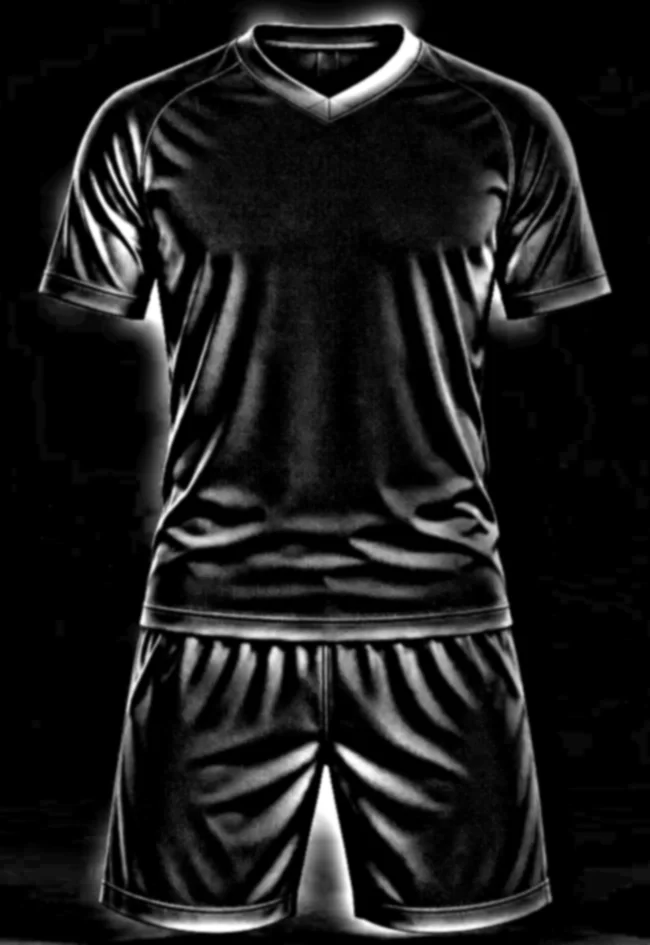
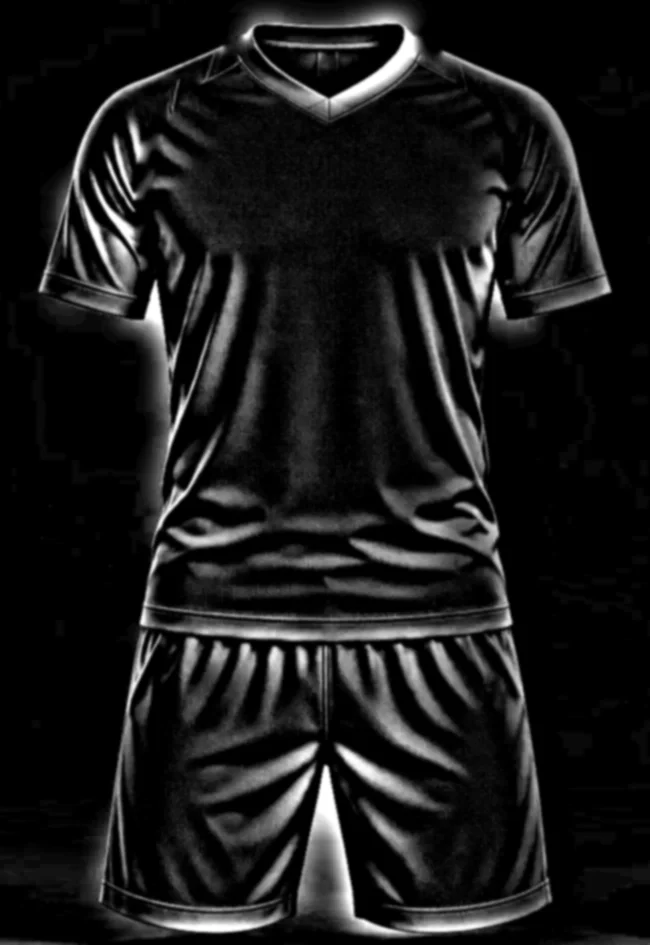
Gola careca no mockup em foto, manga comum e punho inclinado
- Visual Foto: variante da frente sem o V (mapas -careca) e gola redonda
  desenhada com sombra própria quando a gola Careca é escolhida
- Costuras raglan apagadas dos mapas de luz da foto; costura de manga
  comum desenhada nos dois visuais
- Sem opção de cor da manga: segue a cor de fundo do uniforme (simulações
  salvas também são ajustadas); aba renomeada para Gola e punho
- Punhos inclinados acompanhando a barra das mangas (foto remedida e
  ilustração)

Claude-Session: https://claude.ai/code/session_01LWKwsvGKQjaMGiuZcpz9Vi

diff --git a/simulador/js/render.js b/simulador/js/render.js
@@ -34,14 +34,12 @@ export const TIPOS_GOLA = Object.fromEntries(Object.entries(GOLAS).map(([k, g]) 
 const GOLA_INTERNA = 'M87300 2400C97000 -900 130000 -900 140200 2400L138600 4600C129000 1600 98500 1600 88900 4600Z';
 const GOLA_COSTAS = 'M78800 -500C86500 11500 140500 11500 148200 -500L141000 -500C133500 5200 93500 5200 86000 -500Z';
 
-// área das mangas (para a cor da manga) e costura do ombro
-export const MANGAS = [
-  'M-2000 -2000H39500V15500C49500 45000 50500 85000 43200 114200L46000 132000H-2000Z',
-  'M227000 -2000H186500V16500C176000 45000 175500 85000 184400 109700L182000 132000H227000Z',
-];
+// costura da manga (manga comum, montada separada do corpo)
 const COSTURA_MANGA = 'M39500 16500C49500 45000 50500 85000 43200 114200M186500 17500C176000 45000 175500 85000 184400 109700';
 
-export const PUNHOS = 'M-2000 116800H46500V126000H-2000ZM181000 115200H227000V124000H181000Z';
+// punhos levemente inclinados, acompanhando a barra de cada manga
+export const PUNHOS = 'M-2000 113700L43300 115500V127000H-2000ZM184600 115000L227000 113500V126000H184600Z';
+const PUNHOS_COSTURA = 'M-2000 113700L43300 115500M184600 115000L227000 113500';
 export const TIPOS_PUNHO = { sem: 'Sem punho', simples: 'Punho simples' };
 
 // par de meiões com chuteira (coordenadas de uma perna: 170 x 470). O meião é
@@ -105,7 +103,6 @@ export function variaveisCor(estado, camadasCamisa = 6, camadasCalcao = 6) {
     '--camisa-base': hex(c.camisa.base),
     '--calcao-base': hex(calcao.base),
     '--gola': hex(estado.gola.cor),
-    '--manga': hex(estado.manga.cor === 'corpo' ? c.camisa.base : estado.manga.cor),
     '--punho': hex(estado.punho.cor),
     '--meiao': hex(estado.meiao.cor),
     '--texto': hex(estado.nome.cor),
@@ -187,7 +184,6 @@ function golaFrente(id, gola) {
 function camisa({ id, modelo, lado, estado, silhueta, overlays }) {
   const { w, h } = VB.camisa;
   const gola = GOLAS[estado.gola.tipo] ?? GOLAS.careca;
-  const corManga = estado.manga.cor !== 'corpo';
   const frente = lado === 'frente';
   return `<svg viewBox="0 0 ${w} ${h}" overflow="visible">
     <defs><clipPath id="${id}-clip"><path d="${silhueta}"/></clipPath>${filtros(id, w, h)}
@@ -196,10 +192,9 @@ function camisa({ id, modelo, lado, estado, silhueta, overlays }) {
     <g clip-path="url(#${id}-clip)">
       <rect x="-5000" y="-5000" width="${w + 10000}" height="${h + 10000}" fill="var(--camisa-base)"/>
       ${camadasModelo(modelo, 'camisa', lado)}
-      ${corManga ? `<path d="${MANGAS.join('')}" fill="var(--manga)"/>` : ''}
       ${estado.punho.tipo === 'simples' ? `<path d="${PUNHOS}" fill="var(--punho)"/>` : ''}
       <g data-ov="camisa-${lado}">${overlays}</g>
-      ${estado.punho.tipo === 'simples' ? `<path d="M-2000 116800H46500M181000 115200H227000" stroke="#000" stroke-opacity=".25" stroke-width="500" pointer-events="none"/>` : ''}
+      ${estado.punho.tipo === 'simples' ? `<path d="${PUNHOS_COSTURA}" stroke="#000" stroke-opacity=".25" stroke-width="500" pointer-events="none"/>` : ''}
       ${sombraCamisa(id, lado)}
     </g>
     ${frente ? golaFrente(id, gola) : `<path d="${GOLA_COSTAS}" fill="var(--gola)"/><path d="${GOLA_COSTAS}" fill="url(#${id}-rib)"/><path d="${GOLA_COSTAS}" fill="none" stroke="#000" stroke-opacity=".3" stroke-width="500"/>`}
@@ -449,8 +444,10 @@ export function montarPalcoFoto({ estado, modelos, foto, vista, prefixo = 'f', b
     const sCal = (kx1 - kx0) / VB.calcao.w;
     const hCal = VB.calcao.h * sCal;
     const clipes = [temCamisa && cam.caminho, temCalcao && cal.caminho].filter(Boolean).join('');
-    const corManga = estado.manga.cor !== 'corpo';
     const frente = lado === 'frente';
+    // gola careca na frente: mapas de luz sem o V da foto + gola redonda desenhada
+    const careca = frente && estado.gola.tipo === 'careca' && f.careca;
+    const mapa = `${frente ? 'frente' : 'costas'}${careca ? '-careca' : ''}`;
     let meiao_ = '';
     let altura = h;
     if (estado.meiao.ativo && temCalcao) {
@@ -465,6 +462,9 @@ export function montarPalcoFoto({ estado, modelos, foto, vista, prefixo = 'f', b
         <clipPath id="${id}-cam"><path d="${cam.caminho}"/></clipPath>
         <clipPath id="${id}-cal"><path d="${cal.caminho}"/></clipPath>
         <clipPath id="${id}-pecas"><path d="${clipes}"/></clipPath>
+        <linearGradient id="${id}-interno" x1="0" y1="0" x2="0" y2="1"><stop offset="0" stop-color="#000" stop-opacity=".7"/><stop offset="1" stop-color="#000" stop-opacity=".4"/></linearGradient>
+        <linearGradient id="${id}-rib" x1="0" y1="0" x2="0" y2="1"><stop offset="0" stop-color="#fff" stop-opacity=".22"/><stop offset=".5" stop-color="#fff" stop-opacity="0"/><stop offset="1" stop-color="#000" stop-opacity=".28"/></linearGradient>
+        <filter id="${id}-sb" x="-20%" y="-50%" width="140%" height="200%"><feGaussianBlur stdDeviation="2.5"/></filter>
       </defs>
       <g data-peca="foto" style="isolation:isolate">
       ${temCalcao ? `<g clip-path="url(#${id}-cal)">
@@ -476,18 +476,29 @@ export function montarPalcoFoto({ estado, modelos, foto, vista, prefixo = 'f', b
         <rect x="${x0}" y="${y0}" width="${w}" height="${h}" fill="var(--camisa-base)"/>
         <svg x="${cx0}" y="${cy0}" width="${cx1 - cx0}" height="${cy1 - cy0}" viewBox="0 0 ${VB.camisa.w} ${VB.camisa.h}" preserveAspectRatio="none" overflow="visible">
           ${camadasModelo(modelos.camisa, 'camisa', lado)}
+          <path d="${COSTURA_MANGA}" fill="none" stroke="#000" stroke-opacity=".38" stroke-width="1.3" vector-effect="non-scaling-stroke"/>
+          <path d="${COSTURA_MANGA}" fill="none" stroke="#fff" stroke-opacity=".25" stroke-width="1" vector-effect="non-scaling-stroke" transform="translate(-900 0)"/>
         </svg>
-        ${corManga ? `<path d="${f.mangas}" fill="var(--manga)"/>` : ''}
         ${estado.punho.tipo === 'simples' ? `<path d="${f.punhos}" fill="var(--punho)"/>` : ''}
         <svg x="${cx0}" y="${cy0}" width="${cx1 - cx0}" height="${cy1 - cy0}" viewBox="0 0 ${VB.camisa.w} ${VB.camisa.h}" preserveAspectRatio="none" overflow="visible">
           <g data-ov="camisa-${lado}" data-fx="${syCam / sxCam}">${overlaysPeca(estado, 'camisa', lado, syCam / sxCam)}</g>
         </svg>
-        ${frente ? `<path d="${f.abertura}" fill="var(--camisa-base)"/><path d="${f.golaInterna}" fill="var(--gola)"/>` : ''}
-        <path d="${f.gola}" fill="var(--gola)"/>
+        ${careca
+          ? `<path d="${careca.abertura}" fill="var(--camisa-base)"/><path d="${careca.golaInterna}" fill="var(--gola)"/><path d="${careca.gola}" fill="var(--gola)"/>`
+          : `${frente ? `<path d="${f.abertura}" fill="var(--camisa-base)"/><path d="${f.golaInterna}" fill="var(--gola)"/>` : ''}<path d="${f.gola}" fill="var(--gola)"/>`}
       </g>` : ''}
       <!-- o recorte vai em cada imagem: um grupo recortado isolaria a mistura das cores -->
-      <image href="${base}sombra-${lado === 'verso' ? 'costas' : 'frente'}.webp" x="${x0}" y="${y0}" width="${w}" height="${h}" clip-path="url(#${id}-pecas)" style="mix-blend-mode:multiply" pointer-events="none"/>
-      <image href="${base}brilho-${lado === 'verso' ? 'costas' : 'frente'}.webp" x="${x0}" y="${y0}" width="${w}" height="${h}" clip-path="url(#${id}-pecas)" style="mix-blend-mode:screen" opacity=".38" pointer-events="none"/>
+      <image href="${base}sombra-${mapa}.webp" x="${x0}" y="${y0}" width="${w}" height="${h}" clip-path="url(#${id}-pecas)" style="mix-blend-mode:multiply" pointer-events="none"/>
+      <image href="${base}brilho-${mapa}.webp" x="${x0}" y="${y0}" width="${w}" height="${h}" clip-path="url(#${id}-pecas)" style="mix-blend-mode:screen" opacity=".38" pointer-events="none"/>
+      ${careca && temCamisa ? `<g pointer-events="none">
+        <path d="${careca.gola}" fill="#000" fill-opacity=".35" filter="url(#${id}-sb)" transform="translate(0 3)"/>
+        <path d="${careca.abertura}" fill="url(#${id}-interno)"/>
+        <path d="${careca.golaInterna}" fill="#000" fill-opacity=".35"/>
+        <path d="${careca.gola}" fill="var(--gola)"/>
+        <path d="${careca.gola}" fill="url(#${id}-rib)"/>
+        <path d="${careca.nervura}" fill="none" stroke="#000" stroke-opacity=".14" stroke-width=".8"/>
+        <path d="${careca.gola}" fill="none" stroke="#000" stroke-opacity=".3" stroke-width=".7"/>
+      </g>` : ''}
       </g>
       ${meiao_}
     </g>`;

diff --git a/simulador/js/app.js b/simulador/js/app.js
@@ -118,7 +118,8 @@ function normalizar(e) {
   if (e?.meiao?.base && !e.meiao.cor) r.meiao.cor = e.meiao.base;
   delete r.gola.friso;
   for (const k of ['base', 'punho', 'faixas', 'corFaixas', 'pe']) delete r.meiao[k];
-  delete r.manga.tipo;
+  // a manga é montada separada, mas sempre na cor de fundo do uniforme
+  r.manga = { cor: 'corpo' };
   if (!infoModelo(r.modeloCamisa)) r.modeloCamisa = modeloInicial();
   if (!r.sincronizarModelo && !infoModelo(r.modeloCalcao)) r.modeloCalcao = r.modeloCamisa;
   return r;
@@ -193,7 +194,7 @@ function mudarZoom(novo) {
 function estrutura(e) {
   return JSON.stringify({
     vista, visual, pecas: e.pecas, camisa: e.modeloCamisa, calcao: idCalcao(e), meiao: e.meiao.ativo,
-    gola: e.gola.tipo, mangaCor: e.manga.cor === 'corpo', punho: e.punho.tipo,
+    gola: e.gola.tipo, punho: e.punho.tipo,
   });
 }
 
@@ -445,19 +446,18 @@ const ABAS = {
     alvos() {
       const a = [
         { chave: 'gola', rotulo: 'Gola', valor: () => estado.gola.cor, definir: (e, v) => { e.gola.cor = v; } },
-        { chave: 'manga', rotulo: 'Manga', valor: () => estado.manga.cor, definir: (e, v) => { e.manga.cor = v; }, especiais: [{ valor: 'corpo', rotulo: 'Igual ao desenho do corpo' }] },
       ];
       if (estado.punho.tipo !== 'sem') a.push({ chave: 'punho', rotulo: 'Punho', valor: () => estado.punho.cor, definir: (e, v) => { e.punho.cor = v; } });
       return a;
     },
     html() {
-      if (estado.pecas === 'calcao') return '<h2>Gola e manga</h2><p class="sub">Inclua a camisa em “Modelos” para escolher gola, manga e punho.</p>';
+      if (estado.pecas === 'calcao') return '<h2>Gola e punho</h2><p class="sub">Inclua a camisa em “Modelos” para escolher a gola e o punho.</p>';
       const golas = Object.entries(GOLAS).map(([k, g]) => `<button class="opcao" data-gola="${k}" aria-pressed="${estado.gola.tipo === k}">
         ${iconeCamisa(`<path d="${g.abertura}" fill="#8796a1"/><path d="${g.frente}" fill="#1d4251"/>`)}${esc(g.nome)}</button>`).join('');
       const punhos = Object.entries(TIPOS_PUNHO).map(([k, n]) => `<button class="opcao" data-punho="${k}" aria-pressed="${estado.punho.tipo === k}">
         ${iconeCamisa(k === 'simples' ? `<clipPath id="ic-p"><path d="${catalogo.silhuetas.camisa}"/></clipPath><path clip-path="url(#ic-p)" d="${PUNHOS}" fill="#ef6a28"/>` : '')}${esc(n)}</button>`).join('');
-      return `<h2>Gola e manga</h2><p class="sub">Escolha a gola, o punho e as cores dos acabamentos.</p>
-        <h3>Gola</h3>${visual === 'foto' ? '<p class="sub" style="margin:-4px 0 10px">No visual Foto a camisa aparece sempre com gola V. A Careca aparece no visual Ilustração.</p>' : ''}<div class="opcoes">${golas}</div>
+      return `<h2>Gola e punho</h2><p class="sub">Escolha a gola, o punho e as cores dos acabamentos. As mangas acompanham a cor de fundo do uniforme.</p>
+        <h3>Gola</h3><div class="opcoes">${golas}</div>
         <h3>Punho</h3><div class="opcoes">${punhos}</div>
         <h3>Cores dos acabamentos</h3>${blocoCores('acabamentos', this.alvos())}`;
     },
@@ -788,7 +788,7 @@ function resumo(e = estado) {
   if (temCamisa) linhas.push(`Camisa (modelo ${e.modeloCamisa}): ${cores('camisa', sinc ? Math.max(nCamisa, nCalcao) : nCamisa)}`);
   if (temCalcao) linhas.push(`Calção (modelo ${idCalcao(e)}): ${sinc ? 'mesmas cores da camisa' : cores(e.cores.sincronizar && !temCamisa ? 'camisa' : 'calcao', nCalcao)}`);
   if (temCamisa) {
-    linhas.push(`Gola ${TIPOS_GOLA[e.gola.tipo]} ${rotulo(e.gola.cor)} · Manga ${e.manga.cor !== 'corpo' ? rotulo(e.manga.cor) : 'igual ao desenho do corpo'} · ${TIPOS_PUNHO[e.punho.tipo]}${e.punho.tipo !== 'sem' ? ` ${rotulo(e.punho.cor)}` : ''}`);
+    linhas.push(`Gola ${TIPOS_GOLA[e.gola.tipo]} ${rotulo(e.gola.cor)} · ${TIPOS_PUNHO[e.punho.tipo]}${e.punho.tipo !== 'sem' ? ` ${rotulo(e.punho.cor)}` : ''}`);
   }
   if (e.meiao.ativo) linhas.push(`Meião: ${rotulo(e.meiao.cor)}`);
   const n = e.nome;

diff --git a/simulador/index.html b/simulador/index.html
@@ -33,7 +33,7 @@
     <nav class="abas" role="tablist" aria-label="Etapas da personalização">
       <button role="tab" data-aba="modelos" aria-selected="true"><svg viewBox="0 0 24 24"><path d="M8 3 3 6l2 5 2-1v11h10V10l2 1 2-5-5-3a4 4 0 0 1-8 0z"/></svg><span>Modelos</span></button>
       <button role="tab" data-aba="cores"><svg viewBox="0 0 24 24"><path d="M12 3a9 9 0 1 0 0 18c1.2 0 2-.8 2-1.8 0-1.4-1.5-1.7-1.5-3s1-2.2 2.4-2.2H18a3 3 0 0 0 3-3C21 6.5 17 3 12 3z"/><circle cx="7.5" cy="11" r="1.2"/><circle cx="10" cy="7" r="1.2"/><circle cx="15" cy="7" r="1.2"/></svg><span>Cores</span></button>
-      <button role="tab" data-aba="acabamentos"><svg viewBox="0 0 24 24"><path d="M7 3c1 3 3 5 5 5s4-2 5-5M7 3 3 6l2 5 2-1M17 3l4 3-2 5-2-1M7 10v11h10V10"/></svg><span>Gola e manga</span></button>
+      <button role="tab" data-aba="acabamentos"><svg viewBox="0 0 24 24"><path d="M7 3c1 3 3 5 5 5s4-2 5-5M7 3 3 6l2 5 2-1M17 3l4 3-2 5-2-1M7 10v11h10V10"/></svg><span>Gola e punho</span></button>
       <button role="tab" data-aba="meiao"><svg viewBox="0 0 24 24"><path d="M8 3h7v9l4 3a3 3 0 0 1-2 6h-5a4 4 0 0 1-4-4z"/><path d="M8 7h7"/></svg><span>Meião</span></button>
       <button role="tab" data-aba="nome"><svg viewBox="0 0 24 24"><path d="M4 7V5h16v2M12 5v14M9 19h6"/></svg><span>Nome e número</span></button>
       <button role="tab" data-aba="imagens"><svg viewBox="0 0 24 24"><path d="M12 3 4 6v6c0 5 3.5 8 8 9 4.5-1 8-4 8-9V6z"/><path d="m9 12 2 2 4-4"/></svg><span>Escudo e patrocínio</span></button>

diff --git a/ferramentas/preparar-mockup-foto.py b/ferramentas/preparar-mockup-foto.py
@@ -119,6 +119,67 @@ def caminho(pontos):
     return 'M' + 'L'.join(f'{x:.1f} {y:.1f}' for x, y in pontos) + 'Z'
 
 
+# ------------------------------------------------------------------ retoques da foto
+from PIL import ImageDraw
+
+
+def mascara_de(desenhar):
+    m = Image.new('L', (W, H), 0)
+    desenhar(ImageDraw.Draw(m))
+    return np.asarray(m) > 127
+
+
+def preencher(img, mascara, iteracoes=400):
+    """Apaga a região da máscara: preenchimento suave (Laplace) a partir das
+    bordas e, por cima, a textura da malha copiada de logo abaixo da região."""
+    out = img.copy()
+    ys, xs = np.nonzero(mascara)
+    y0, y1, x0, x1 = ys.min() - 2, ys.max() + 3, xs.min() - 2, xs.max() + 3
+    sub = out[y0:y1, x0:x1]
+    m = mascara[y0:y1, x0:x1]
+    sub[m] = sub[~m].mean()
+    for _ in range(iteracoes):
+        media = (np.roll(sub, 1, 0) + np.roll(sub, -1, 0) + np.roll(sub, 1, 1) + np.roll(sub, -1, 1)) / 4
+        sub[m] = media[m]
+    # textura: detalhe fino (passa-alta) de uma faixa logo abaixo
+    desfoque = np.asarray(Image.fromarray(np.clip(img, 0, 255).astype(np.uint8)).filter(ImageFilter.GaussianBlur(1.5))).astype(np.float32)
+    detalhe = img - desfoque
+    alt = y1 - y0
+    doador = detalhe[min(y1 + 10, H - alt):min(y1 + 10, H - alt) + alt, x0:x1]
+    sub[m] += doador[m] * 0.9
+    out[y0:y1, x0:x1] = sub
+    return out
+
+
+# costuras raglan da foto (frente; as costas repetem deslocadas): são apagadas,
+# porque a camisa da Marol tem manga comum (a costura certa é desenhada no simulador)
+RAGLAN_E = [(366, 60), (348, 72), (330, 85), (305, 105), (285, 125), (270, 160), (262, 200), (262, 240), (266, 270), (273, 300)]
+RAGLAN_D = [(898 - x, y) for x, y in RAGLAN_E]
+DESLOC = 648.5
+
+
+def apagar_raglan(d):
+    for pts in (RAGLAN_E, RAGLAN_D, [(x + DESLOC, y) for x, y in RAGLAN_E], [(x + DESLOC, y) for x, y in RAGLAN_D]):
+        d.line(pts, fill=255, width=17, joint='curve')
+
+
+L_base = preencher(L, mascara_de(apagar_raglan) & pecas, iteracoes=250)
+
+# variante com gola careca: apaga o V da frente (faixa + abertura) e o simulador desenha a gola redonda
+V_FRENTE = [(344, 44), (352, 66), (366, 86), (388, 106), (414, 124), (449, 146), (484, 124), (512, 106), (532, 86), (544, 66), (546, 44), (530, 38), (449, 36), (370, 38)]
+L_careca = preencher(L_base, mascara_de(lambda d: d.polygon(V_FRENTE, fill=255)), iteracoes=500)
+
+def mapas_de_luz(reg, nome):
+    # sombras: luminância relativa ao branco do tecido, com um pouco mais de contraste
+    sombra = np.clip(reg / ref, 0, 1) ** 1.35
+    # brilhos: só onde o tecido é mais claro que a vizinhança (relevo das dobras),
+    # para dar volume às cores escuras sem lavar a peça inteira
+    media = np.asarray(Image.fromarray(reg.astype(np.uint8)).filter(ImageFilter.GaussianBlur(14))).astype(np.float32)
+    brilho = np.asarray(Image.fromarray(np.clip((reg - media) / 26 * 255, 0, 255).astype(np.uint8)).filter(ImageFilter.GaussianBlur(1.2))).astype(np.float32) / 255
+    Image.fromarray((sombra * 255).astype(np.uint8)).save(f'{destino}/sombra-{nome}.webp', quality=88)
+    Image.fromarray((brilho * 255).astype(np.uint8)).save(f'{destino}/brilho-{nome}.webp', quality=85)
+
+
 saida = {'largura': W, 'altura': H, 'lados': {}}
 garment_lum = L[pecas]
 ref = float(np.percentile(garment_lum, 97))  # branco do tecido
@@ -135,29 +196,21 @@ for lado, cfg in LADOS.items():
     for nome, m in (('camisa', camisa), ('calcao', calcao)):
         ys, xs = np.nonzero(m)
         info['pecas'][nome] = {'caminho': caminho(contorno(m)), 'caixa': [int(xs.min()), int(ys.min()), int(xs.max()), int(ys.max())]}
-    # mapas de luz recortados para o lado
-    reg = L[y0:y0 + h, x0:x0 + w]
-    # sombras: luminância relativa ao branco do tecido, com um pouco mais de contraste
-    sombra = np.clip(reg / ref, 0, 1) ** 1.35
-    # brilhos: só onde o tecido é mais claro que a vizinhança (relevo das dobras),
-    # para dar volume às cores escuras sem lavar a peça inteira
-    media = np.asarray(Image.fromarray(reg.astype(np.uint8)).filter(ImageFilter.GaussianBlur(14))).astype(np.float32)
-    brilho = np.asarray(Image.fromarray(np.clip((reg - media) / 26 * 255, 0, 255).astype(np.uint8)).filter(ImageFilter.GaussianBlur(1.2))).astype(np.float32) / 255
-    Image.fromarray((sombra * 255).astype(np.uint8)).save(f'{destino}/sombra-{lado}.webp', quality=88)
-    Image.fromarray((brilho * 255).astype(np.uint8)).save(f'{destino}/brilho-{lado}.webp', quality=85)
+    # mapas de luz recortados para o lado (frente também na versão gola careca)
+    variantes = [('', L_base)] + ([('-careca', L_careca)] if lado == 'frente' else [])
+    for sufixo, fonte in variantes:
+        mapas_de_luz(fonte[y0:y0 + h, x0:x0 + w], f'{lado}{sufixo}')
     saida['lados'][lado] = info
 
+
 # ------------------------------------------------------------------ regiões desenhadas à mão
-# Coordenadas na foto (px). As costas repetem mangas e punhos da frente deslocados.
-DESLOC = 648.5
-manga_e = [(352, 40), (300, 95), (272, 130), (258, 170), (252, 220), (262, 270), (274, 306), (276, 345), (140, 330), (140, 40)]
-manga_d = [(546, 40), (598, 95), (626, 130), (640, 170), (646, 220), (636, 270), (624, 306), (618, 345), (750, 330), (750, 40)]
-punho_e = [(150, 286), (277, 305), (274, 342), (148, 322)]
-punho_d = [(616, 304), (742, 292), (748, 318), (620, 342)]
+# Coordenadas na foto (px). As costas repetem os punhos da frente deslocados.
+# punhos medidos na barra das mangas (acompanham a inclinação de cada manga)
+punho_e = [(150, 290), (266, 318), (268, 344), (148, 314)]
+punho_d = [(622, 319), (742, 296), (744, 318), (624, 345)]
 mover = lambda pts, dx: [(x + dx, y) for x, y in pts]
 poli = lambda pts: 'M' + 'L'.join(f'{x:.1f} {y:.1f}' for x, y in pts) + 'Z'
 saida['lados']['frente'].update({
-    'mangas': poli(manga_e) + poli(manga_d),
     'punhos': poli(punho_e) + poli(punho_d),
     # gola V: faixa da gola e abertura (interior da camisa, com a gola de trás)
     'gola': 'M347 47C351 64 362 82 384 101C404 118 428 131 449 142C470 131 494 118 514 101C530 85 538 66 539 46'
@@ -165,9 +218,15 @@ saida['lados']['frente'].update({
             'C366 41 356 42 347 47Z',
     'abertura': 'M374 44C379 62 392 82 414 100C428 110 439 115 449 120C459 115 470 110 484 100C507 82 519 62 522 43C495 39 400 39 374 44Z',
     'golaInterna': 'M378 52C410 49 490 49 519 51L518 66C490 62 410 62 382 66Z',
+    # gola careca (usa os mapas de luz "-careca", em que o V da foto foi apagado)
+    'careca': {
+        'gola': 'M361 41C379 88 519 88 537 41C531 39 525 39 520 43C503 69 395 69 378 43C372 39 366 39 361 41Z',
+        'abertura': 'M378 43C395 69 503 69 520 43C495 37 403 37 378 43Z',
+        'golaInterna': 'M381 45C410 41 488 41 517 45L514 52C488 48 410 48 384 52Z',
+        'nervura': 'M369 42C386 79 512 79 529 42',
+    },
 })
 saida['lados']['costas'].update({
-    'mangas': poli(mover(manga_e, DESLOC)) + poli(mover(manga_d, DESLOC)),
     'punhos': poli(mover(punho_e, DESLOC)) + poli(mover(punho_d, DESLOC)),
     'gola': 'M996 62C1000 54 1006 48 1012 46C1040 42 1130 41 1163 44C1168 47 1172 52 1172 58C1150 66 1125 71 1100 72C1065 72 1030 68 996 62Z',
 })

diff --git a/README.md b/README.md
@@ -13,9 +13,9 @@ publicado em qualquer hospedagem, inclusive em `marolsports.com/simulador/`.
 - **Cores:** cartela com 48 cores com referência Pantone/TCX, para a base e para
   cada camada da estampa. A camisa e o calção podem ter as mesmas cores ou cores
   independentes.
-- **Gola e manga:**
+- **Gola e punho:**
   - golas Careca e V, com cor;
-  - manga com cor própria ou seguindo o desenho do corpo;
+  - mangas montadas separadas do corpo, sempre na cor de fundo do uniforme;
   - punho simples ou sem punho.
 - **Meião:** visto de frente, com uma cor.
 - **Nome e número:** 4 fontes (a "Universitária" imita o estilo College), cor e
@@ -45,13 +45,15 @@ Ilustração" no palco), montado sobre a foto `ferramentas/mockup/base.webp`
 - a estampa é pintada por baixo, encaixada na camisa e no calção da foto;
 - a foto entra por cima como mapa de sombras (multiplicar) e de brilhos (tela).
   Por isso as dobras, as costuras e o tecido aparecem em qualquer cor;
-- a gola, as mangas e os punhos são coloridos por regiões medidas na foto. A
-  foto tem gola V, então nesse visual a camisa sempre aparece com gola V.
+- a gola e os punhos são coloridos por regiões medidas na foto. A foto tem gola
+  V e manga raglan: o script apaga as costuras raglan, porque a camisa da Marol
+  tem manga comum (a costura certa é desenhada pelo simulador), e gera uma
+  versão da frente sem o V para a gola Careca.
 
 Para trocar a foto, rode
 `python3 ferramentas/preparar-mockup-foto.py <foto> simulador/mockup`. O script
 gera os contornos e os mapas de luz em `simulador/mockup/`. As regiões de gola,
-mangas e punhos estão em coordenadas da foto dentro do script e precisam ser
+punhos e costuras estão em coordenadas da foto dentro do script e precisam ser
 reajustadas para outra imagem.
 
 > **Licença:** se a foto veio de um banco de imagens (Freepik, Envato etc.),
